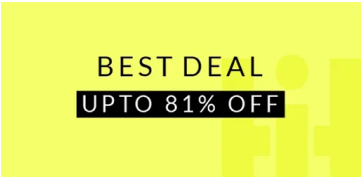
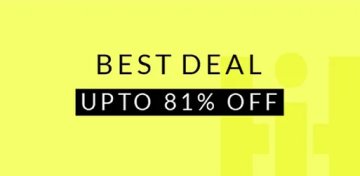
Replaced assests

diff --git a/src/components/Features.vue b/src/components/Features.vue
@@ -14,7 +14,7 @@
 
     <div class="bg-[#F5F4F2] flex justify-around py-10 lg:px-32 md:px-24 text-center lg:text-2xl md:text-base text-sm font-semibold my-16 divide-x divide-red-400">
         <div class="w-full">
-                <svg class="lg:w-36 lg:h-36 md:w-28 md:h-28 w-10 h-10 mb-8 mx-auto " xmlns="http://www.w3.org/2000/svg" width="88" height="89" viewBox="0 0 88 89" fill="none">
+                <svg class="lg:w-28 lg:h-28 md:w-20 md:h-20 w-10 h-10 mb-8 mx-auto " xmlns="http://www.w3.org/2000/svg" width="88" height="89" viewBox="0 0 88 89" fill="none">
                     <path d="M68.5196 30.039C60.6771 26.2728 52.8446 22.4865 45.0146 18.6977C44.3423 18.3722 43.7325 18.3797 43.0628 18.7278C41.7932 19.3864 40.4936 19.9874 39.2015 20.6059C32.6161 23.7711 26.0282 26.9364 19.4428 30.1041C18.778 30.4246 18.5356 30.968 18.5381 31.6992C18.5531 39.9604 18.5731 48.2241 18.5331 56.4853C18.5281 57.7173 18.9279 58.416 20.0526 58.9493C27.4127 62.4451 34.7604 65.971 42.0731 69.5694C43.4201 70.233 44.4673 70.3081 45.8744 69.612C53.2795 65.9409 60.7496 62.395 68.2097 58.8391C69.1594 58.3859 69.5243 57.7674 69.5118 56.7181C69.4668 52.5863 69.4943 48.457 69.4943 44.3251C69.4993 44.3251 69.5018 44.3251 69.5068 44.3251C69.5068 40.1006 69.4968 35.8762 69.5143 31.6492C69.5193 30.8704 69.2369 30.3821 68.5196 30.039ZM43.5376 21.4473C43.82 21.3121 44.0599 21.2019 44.4073 21.3747C47.2164 22.7544 50.0405 24.1067 52.8721 25.4765C52.6597 25.807 52.3373 25.8646 52.0649 25.9973C45.6494 29.0949 39.2315 32.1825 32.826 35.2977C32.2312 35.5857 31.7614 35.5807 31.1765 35.2877C28.6898 34.0406 26.1806 32.8411 23.6789 31.6241C23.489 31.5315 23.3015 31.4313 23.0716 31.3111C29.9294 28.0081 36.7348 24.7277 43.5376 21.4473ZM42.7054 66.9025C38.6866 64.9693 34.7729 63.0862 30.8591 61.2031C27.8901 59.7732 24.9285 58.3283 21.9495 56.9185C21.4271 56.6706 21.2347 56.3751 21.2372 55.7841C21.2597 48.6798 21.2597 41.5756 21.2397 34.4688C21.2372 33.7451 21.3047 33.5173 22.0769 33.8954C28.7323 37.1407 35.4002 40.3536 42.0706 43.5664C42.4454 43.7467 42.7229 43.8719 42.7204 44.4078C42.6979 51.8551 42.7054 59.3049 42.7054 66.9025ZM43.6451 41.2951C40.841 39.9279 38.0319 38.5731 35.0878 37.1458C36.7548 36.3394 38.2993 35.5932 39.8438 34.847C45.0196 32.3553 50.2005 29.8712 55.3663 27.3571C55.9037 27.0966 56.3035 27.1117 56.8309 27.3746C59.5 28.6993 62.1917 29.9764 65.0382 31.3512C61.6393 32.9914 58.4404 34.5364 55.2414 36.079C51.7575 37.7593 48.2711 39.4396 44.7847 41.1173C44.4273 41.2901 44.0874 41.5105 43.6451 41.2951ZM66.3703 56.7582C59.4475 60.0812 52.5297 63.4167 45.6094 66.7447C45.5595 66.7698 45.492 66.7597 45.342 66.7773C45.342 59.2749 45.347 51.8301 45.3295 44.3852C45.3295 43.9595 45.497 43.7817 45.8269 43.624C52.6247 40.3586 59.425 37.0932 66.2129 33.8077C66.7352 33.5548 66.8377 33.645 66.8377 34.1909C66.8277 41.4479 66.8277 48.7049 66.8402 55.9619C66.8377 56.355 66.7377 56.5829 66.3703 56.7582Z" fill="#1C1C1C"/>
                     <path d="M87.521 38.0622C87.0311 34.5564 86.0939 31.1758 84.7743 27.8979C84.427 27.0315 83.7347 26.6884 83.0074 26.9614C82.2926 27.2293 81.9977 27.9831 82.2826 28.832C82.3626 29.0674 82.4751 29.2902 82.565 29.5231C85.919 38.4103 86.2889 47.4277 83.5522 56.5178C78.5863 73.0126 63.9335 84.7019 46.7939 85.8338C38.3716 86.3897 30.4641 84.5316 23.144 80.2796C19.84 78.3589 16.8585 76.0225 14.0444 73.0551C16.9185 73.3631 19.5526 73.6336 22.1843 73.9366C23.2589 74.0618 23.9887 73.6686 24.1062 72.8122C24.2111 72.061 23.6488 71.4124 22.6691 71.3047C18.7954 70.879 14.9191 70.4709 11.0403 70.0902C9.89819 69.9775 9.46083 70.4158 9.34087 71.5476C9.12344 73.566 8.88101 75.5818 8.65858 77.6001C8.44865 79.4933 8.23372 81.3889 8.05877 83.2871C7.9763 84.1685 8.50863 84.8271 9.26089 84.8972C9.96567 84.9623 10.5555 84.4415 10.6754 83.5876C10.8129 82.5984 10.9179 81.6043 11.0278 80.6101C11.2453 78.6669 11.4552 76.7262 11.6676 74.783C12.04 74.7905 12.1425 75.0559 12.3049 75.2187C23.4489 86.267 36.7771 90.6367 52.2072 87.8922C64.0934 85.7787 73.5029 79.4933 80.2933 69.5043C86.7462 60.0035 89.1155 49.4686 87.521 38.0622Z" fill="#1C1C1C"/>
                     <path d="M5.37475 59.3C2.24324 50.9762 1.84837 42.5072 4.09265 33.9155C9.14355 14.586 27.7676 1.53442 47.6213 3.36495C56.521 4.18631 64.356 7.49929 71.1388 13.3189C72.151 14.1853 73.1207 15.0994 74.0779 16.1887C73.1407 16.086 72.3384 15.9958 71.5337 15.9082C69.5493 15.6928 67.5674 15.4575 65.5806 15.2696C64.6634 15.1845 64.0436 15.6703 63.9486 16.4366C63.8561 17.1803 64.3959 17.7763 65.3082 17.889C66.6077 18.0517 67.9098 18.1945 69.2119 18.3372C71.7836 18.6227 74.3553 18.9257 76.9295 19.1786C78.1466 19.2963 78.5689 18.9157 78.7114 17.7112C78.9513 15.6953 79.1837 13.677 79.4037 11.6587C79.6161 9.70293 79.8285 7.74469 79.991 5.78395C80.0635 4.91251 79.5661 4.34407 78.8139 4.27145C78.0666 4.19632 77.4818 4.69966 77.3818 5.54606C77.1819 7.25138 77.0044 8.96171 76.8095 10.6695C76.6645 11.9466 76.5046 13.2213 76.3446 14.5434C76.1797 14.4483 76.1172 14.4283 76.0747 14.3882C65.4306 3.50017 52.5572 -1.06488 37.472 0.998532C28.1425 2.27314 20.0026 6.28979 13.3647 12.9483C2.0533 24.2946 -2.0279 37.9897 0.928662 53.7633C1.37602 56.1523 2.14328 58.4611 3.013 60.7324C3.39538 61.734 4.06016 62.0971 4.8774 61.7866C5.61467 61.5086 5.87959 60.7499 5.56718 59.8284C5.5072 59.6506 5.44222 59.4753 5.37475 59.3Z" fill="#1C1C1C"/>
@@ -27,7 +27,7 @@
         </div>
 
         <div class="w-full">
-            <svg  class="lg:w-36 lg:h-36 md:w-28 md:h-28 w-10 h-10 mb-8 mx-auto" xmlns="http://www.w3.org/2000/svg" width="66" height="89" viewBox="0 0 66 89" fill="none">
+            <svg  class="lg:w-28 lg:h-28 md:w-20 md:h-20 w-10 h-10 mb-8 mx-auto" xmlns="http://www.w3.org/2000/svg" width="66" height="89" viewBox="0 0 66 89" fill="none">
                 <path d="M63.47 28.1377C62.2394 26.5896 60.9865 25.0604 59.7043 23.5553C58.9361 22.6529 58.4531 21.6507 58.3397 20.4762C58.1489 18.5079 57.9289 16.5413 57.7949 14.5695C57.5577 11.0926 54.9711 8.30457 51.5166 7.91366C49.7824 7.71734 48.0465 7.53136 46.3072 7.40909C44.5765 7.28683 43.0899 6.76504 41.6995 5.62502C39.3707 3.71524 37.3443 1.31122 34.2438 0.515625C33.3845 0.515625 32.5252 0.515625 31.6658 0.515625C29.4693 1.10113 27.8658 2.61656 26.1867 4.01833C25.2844 4.77087 24.3769 5.51653 23.4643 6.25358C22.7098 6.86492 21.8436 7.16972 20.8725 7.25755C18.652 7.45903 16.4314 7.67946 14.2144 7.93088C11.2874 8.26324 8.62177 10.9548 8.29866 13.891C8.05633 16.0832 7.82603 18.2788 7.63525 20.4762C7.54416 21.5129 7.2073 22.4221 6.55248 23.2195C5.26348 24.7917 3.97447 26.3657 2.67858 27.9345C0.296495 30.819 0.250091 34.3716 2.58749 37.2888C3.84041 38.8542 5.12426 40.3954 6.4064 41.9367C7.0234 42.6789 7.49088 43.4952 7.594 44.4613C7.79681 46.3693 7.9893 48.2808 8.13195 50.1958C8.431 54.1996 10.722 56.905 14.4017 57.4578C15.7388 57.6593 17.0966 57.7316 18.5214 57.8693C18.4097 58.1414 18.3478 58.2981 18.2825 58.4514C15.2971 65.6118 12.3169 72.7739 9.3144 79.9274C8.97582 80.7333 8.86583 81.4721 9.4983 82.1558C10.1067 82.8119 10.844 82.7619 11.6381 82.5329C13.9909 81.8544 16.3627 81.2345 18.707 80.5301C19.2673 80.3614 19.5113 80.4647 19.776 80.9572C20.9636 83.1718 22.1959 85.364 23.3938 87.5751C23.8011 88.3277 24.3597 88.7703 25.2448 88.6773C26.1454 88.5826 26.5252 87.9264 26.8346 87.1842C29.9849 79.626 33.1387 72.0696 36.2959 64.5131C36.4025 64.2565 36.4592 63.9775 36.717 63.7916C38.7433 62.3399 40.5789 60.647 42.5261 59.0972C42.9094 58.7924 43.3391 58.5754 43.7825 58.3687C44.4322 58.0639 44.7604 58.2086 45.0492 58.9129C46.9346 63.5332 48.8767 68.1329 50.7861 72.7446C51.7005 74.9541 52.7248 77.117 53.4896 79.3867C53.4913 79.3867 53.4913 79.3884 53.493 79.3884C53.2593 79.5916 53.0221 79.3918 52.8193 79.3367C51.1419 78.8821 49.4748 78.3965 47.8025 77.9212C45.9652 77.3994 44.9564 77.8127 44.0351 79.4762C43.1638 81.0502 42.3044 82.6328 41.4279 84.205C41.3299 84.3824 41.3076 84.6614 41.0068 84.6717C39.6714 81.4842 38.3343 78.3 37.0075 75.1108C36.7892 74.5855 36.5297 74.1292 35.9075 74.031C35.3885 73.9484 34.9313 74.0723 34.6099 74.5063C34.2473 74.9937 34.3006 75.5086 34.5274 76.0476C36.1034 79.8103 37.6726 83.5765 39.2366 87.3444C39.5425 88.0814 39.9825 88.6256 40.8453 88.6824C41.7476 88.7427 42.2615 88.233 42.6585 87.5011C43.8306 85.3399 45.0337 83.1959 46.1904 81.0278C46.4585 80.525 46.6682 80.339 47.2955 80.5301C49.6398 81.2448 52.0133 81.8579 54.3678 82.5346C55.1619 82.7619 55.8992 82.8102 56.5042 82.1489C57.1366 81.4583 57.0077 80.7023 56.676 79.9102C54.3249 74.3031 51.9875 68.6926 49.6449 63.0821C48.9265 61.36 48.2081 59.6379 47.4691 57.8659C48.7976 57.7385 50.0213 57.6041 51.2467 57.5043C54.3833 57.2494 57.0919 54.9194 57.6093 51.8094C57.9616 49.6946 58.1128 47.5438 58.2933 45.4032C58.405 44.079 58.7625 42.9011 59.6476 41.8713C60.9366 40.3713 62.181 38.8335 63.4218 37.2957C65.6888 34.4887 65.7128 30.9602 63.47 28.1377ZM53.4896 79.4848C53.4965 79.4573 53.5016 79.4297 53.5085 79.4022C53.536 79.4246 53.5618 79.447 53.5893 79.4693C53.5549 79.4745 53.5223 79.4797 53.4896 79.4848ZM24.9234 84.8525C23.8991 82.9841 22.9435 81.2276 21.9776 79.4779C21.0736 77.8385 20.0132 77.4046 18.2 77.9195C16.2922 78.4619 14.3845 79.0027 12.3462 79.583C13.5492 76.7002 14.7007 73.9449 15.8523 71.1896C17.5675 67.0807 19.2982 62.9787 20.9842 58.8578C21.2369 58.2396 21.4878 58.0829 22.1134 58.3395C22.7338 58.5926 23.2804 58.9319 23.7891 59.3503C25.1589 60.4817 26.5545 61.5821 27.8882 62.7549C29.4075 64.0895 31.1313 64.8661 33.2607 64.8902C30.4713 71.565 27.718 78.1588 24.9234 84.8525ZM61.1893 35.8268C60.177 37.0718 59.218 38.3686 58.118 39.531C56.3632 41.3856 55.6551 43.5882 55.5537 46.08C55.4936 47.5386 55.3441 48.9955 55.1619 50.4455C54.7992 53.3455 53.237 54.73 50.2688 54.9401C48.3009 55.0796 46.3347 55.257 44.3754 55.4929C42.9885 55.6599 41.7631 56.2644 40.6837 57.1702C39.1043 58.4962 37.5059 59.7981 35.9161 61.112C35.0722 61.8095 34.1167 62.2038 32.9462 62.1831C31.8978 62.2193 30.944 61.8112 30.1001 61.1189C28.7475 60.0133 27.3365 58.9698 26.0715 57.7712C24.2325 56.0284 22.0412 55.3999 19.5973 55.2707C17.9714 55.1846 16.349 54.9952 14.7334 54.7851C12.5077 54.4958 11.0331 52.8082 10.8526 50.554C10.679 48.3842 10.4229 46.2212 10.2012 44.0566C10.0689 42.7667 9.5533 41.6302 8.74896 40.6314C7.47198 39.0471 6.17438 37.4817 4.87849 35.9146C3.08075 33.7379 3.06701 31.6645 4.84756 29.4913C6.04548 28.0292 7.22105 26.5465 8.45162 25.1103C9.57392 23.7998 10.1651 22.2913 10.3233 20.5916C10.5089 18.594 10.6979 16.5981 10.8715 14.6005C11.064 12.3704 12.8394 10.6707 15.096 10.4864C17.2616 10.3091 19.4202 10.0594 21.5823 9.83894C22.9916 9.69601 24.205 9.09845 25.2861 8.20641C26.8535 6.91314 28.4227 5.61986 29.9918 4.32486C31.8772 2.76982 34.0273 2.72849 35.9367 4.25769C37.4337 5.45798 38.9255 6.66688 40.3692 7.92916C41.904 9.26893 43.6725 9.88199 45.6851 9.99909C47.567 10.1076 49.4507 10.2884 51.3189 10.5381C53.6391 10.8464 55.0278 12.6494 55.2237 15.3496C55.3664 17.3214 55.5434 19.2914 55.7737 21.2546C55.9456 22.708 56.597 23.972 57.5405 25.0931C58.7574 26.5396 59.9484 28.0086 61.1549 29.4654C62.9148 31.5974 62.932 33.6845 61.1893 35.8268Z" fill="#1C1C1C"/>
                 <path d="M30.5298 12.3979C29.6876 12.5012 29.2098 13.0368 29.2614 13.8203C29.3112 14.5832 29.8664 15.0361 30.7429 15.0086C31.4011 14.9879 32.0577 14.9431 32.8569 14.9018C33.7437 14.9483 34.768 14.9672 35.7924 15.1188C46.0632 16.6325 52.9276 27.2129 50.1468 37.275C47.5327 46.7378 38.2054 52.2898 28.6255 49.903C20.1438 47.79 14.2006 39.6894 15.4123 30.4401C16.2441 24.0856 19.6987 19.4705 25.4287 16.586C26.4032 16.0952 26.7332 15.4425 26.3929 14.7003C26.0251 13.8996 25.2809 13.7205 24.2738 14.1889C15.9055 18.0842 11.1104 27.6383 12.9752 36.705C15.2095 47.5661 25.5783 54.6731 36.5091 52.8374C47.4845 50.9948 55.0381 40.2284 53.1149 29.1692C51.257 18.4734 41.2939 11.0771 30.5298 12.3979Z" fill="#1C1C1C"/>
                 <path d="M22.7149 29.9563C21.1836 30.0597 19.8911 30.807 19.2123 32.3672C18.5214 33.955 18.7603 35.4825 19.9702 36.7379C21.8797 38.72 23.8286 40.6642 25.8 42.5843C27.3708 44.1152 29.7375 44.16 31.2929 42.6222C35.5346 38.4307 39.7453 34.2064 43.9269 29.9546C45.032 28.8318 45.3052 27.4146 44.7656 25.894C43.7636 23.0732 40.2987 22.3 38.1263 24.4474C35.0877 27.4507 32.0783 30.4833 29.0758 33.521C28.7028 33.8982 28.4828 33.9963 28.0772 33.5469C27.3296 32.7185 26.5115 31.9505 25.7175 31.1635C24.9286 30.3834 23.9713 29.9977 22.7149 29.9563ZM27.3622 36.5708C28.2645 37.468 28.8678 37.4698 29.7735 36.5622C33.137 33.199 36.4919 29.8289 39.8553 26.4657C40.5978 25.7235 41.3609 25.6632 41.959 26.278C42.2048 26.5311 42.3629 26.8308 42.3337 27.2027C42.3766 27.6746 42.1394 28.0156 41.8232 28.3307C37.774 32.3845 33.7299 36.4434 29.6756 40.4937C28.9125 41.2549 28.2096 41.2497 27.4465 40.4937C25.6367 38.6976 23.8355 36.8929 22.0412 35.0812C21.3658 34.3976 21.3314 33.6175 21.9054 33.0371C22.4606 32.4775 23.2941 32.5171 23.9558 33.168C25.1022 34.2942 26.2262 35.4394 27.3622 36.5708Z" fill="#1C1C1C"/>
@@ -38,7 +38,7 @@
         </div>
 
         <div class="w-full">
-            <svg class="lg:w-36 lg:h-36 md:w-28 md:h-28 w-10 h-10 mb-8 mx-auto" xmlns="http://www.w3.org/2000/svg" width="88" height="89" viewBox="0 0 88 89" fill="none">
+            <svg class="lg:w-28 lg:h-28 md:w-20 md:h-20 w-10 h-10 mb-8 mx-auto" xmlns="http://www.w3.org/2000/svg" width="88" height="89" viewBox="0 0 88 89" fill="none">
                 <path d="M68.2047 67.5377C66.9139 63.8424 64.3583 61.5187 60.493 60.7583C57.6396 60.1969 54.7696 59.7208 51.9161 59.1594C51.6348 59.1049 51.1288 59.3015 51.0437 58.7259C50.9681 58.2213 51.3605 58.1124 51.656 57.9181C52.3984 57.4278 53.2187 56.9635 53.7081 56.2458C54.7554 54.7108 56.1502 54.4455 57.8831 54.5237C60.5545 54.6445 62.3867 52.7092 62.3914 50.0112C62.3961 44.4185 62.3938 38.8258 62.3938 33.2332C62.3938 31.883 62.2496 30.547 61.9375 29.2323C59.6278 19.4706 50.8522 13.5131 40.9277 14.9723C32.3673 16.2301 25.5351 24.0755 25.4784 32.7357C25.4571 36.0923 25.4713 39.4465 25.4713 42.803C25.4736 45.7047 26.7999 47.6306 29.5068 48.6065C29.8803 48.7415 30.0316 48.9192 30.1238 49.3005C31.0198 53.0029 33.1049 55.8739 36.2634 57.9679C36.5873 58.1834 36.9182 58.3469 36.8095 58.8088C36.7078 59.2375 36.2941 59.1096 36.0412 59.157C33.4075 59.6616 30.7716 60.1614 28.1261 60.5901C23.7266 61.3031 20.8329 63.7406 19.4759 68.002C19.3742 68.3218 19.3388 68.6747 19.0362 69.004C17.5563 67.5164 16.0858 66.0407 14.6224 64.5602C13.646 63.5724 13.6531 62.9399 14.6555 61.9332C16.2324 60.3485 17.8021 58.7567 19.4003 57.1957C19.7974 56.8096 19.9085 56.5869 19.4452 56.1297C16.2253 52.9485 13.029 49.7411 9.84929 46.5196C9.4663 46.1311 9.28663 46.1596 8.92492 46.5267C7.02182 48.4715 5.09035 50.3925 3.16361 52.3136C1.68841 53.787 0.733319 55.5375 0.29596 57.5818C0.229765 57.8921 0.383432 58.2806 0.0477295 58.5222C0.0477295 59.1523 0.0477295 59.7847 0.0477295 60.4148C0.0997397 60.474 0.19194 60.5285 0.199032 60.5901C0.473267 63.1934 1.73333 65.2613 3.56315 67.0687C6.8256 70.2879 10.0431 73.5544 13.2843 76.7949C16.4262 79.9335 19.4995 83.1432 22.7431 86.1729C26.268 89.4631 31.9134 89.5176 35.5305 86.3932C38.001 84.2589 40.358 81.9967 42.7788 79.8056C43.1216 79.4977 43.0791 79.3058 42.7741 79.0215C42.2115 78.4957 41.6772 77.9366 41.0176 77.2805C41.488 77.2805 41.7457 77.2805 42.0034 77.2805C51.5355 77.2805 61.0675 77.2734 70.5972 77.2971C71.349 77.2994 71.4175 77.1336 71.1835 76.4562C70.1622 73.4928 69.2379 70.4963 68.2047 67.5377ZM57.0556 51.6101C57.3039 50.7147 57.4575 49.7885 57.8287 48.9618C58.0746 48.4146 58.876 48.5331 59.4363 48.0972C59.7058 51.2619 59.3654 51.7593 57.0556 51.6101ZM58.1053 45.5058C58.1053 44.6838 58.1053 43.9305 58.1053 43.1796C58.1053 42.4145 58.1053 41.6494 58.1053 40.7611C59.9469 42.1089 59.9469 44.2977 58.1053 45.5058ZM29.7195 45.5389C28.8968 45.0249 28.4689 44.3853 28.3767 43.5373C28.2538 42.4027 28.6179 41.4765 29.7195 40.7706C29.7195 42.4003 29.7195 43.8855 29.7195 45.5389ZM30.3579 36.007C29.9749 35.9951 29.7266 36.0117 29.7148 36.5305C29.6865 37.6888 29.6534 37.6865 28.3815 38.0986C28.3673 34.1191 27.9867 30.1514 29.8756 26.4277C31.5281 23.173 33.93 20.6953 37.2114 19.12C46.7529 14.5388 57.9374 20.636 59.3441 31.1581C59.6538 33.47 59.4008 35.7891 59.5048 38.1152C58.5403 37.9375 57.8382 37.6272 58.0958 36.4665C58.2235 35.8886 57.7412 36.0046 57.4268 36.0141C54.7861 36.1017 52.266 35.6233 49.8711 34.4744C47.8806 33.5174 46.2257 32.1317 44.7103 30.5517C43.9349 29.7416 43.9041 29.7392 43.1547 30.5328C41.0554 32.7499 38.6558 34.4815 35.6913 35.3627C33.9442 35.8814 32.1664 36.0591 30.3579 36.007ZM32.7645 47.929C32.4714 46.4604 32.6085 44.9586 32.5967 43.471C32.5872 42.2108 32.6439 40.9459 32.5754 39.6881C32.5376 38.9964 32.8165 38.814 33.4217 38.7477C36.852 38.3734 39.897 37.0516 42.6228 34.9458C43.0696 34.5999 43.4313 33.913 43.9467 33.9604C44.3935 34.0006 44.7812 34.5999 45.2091 34.9316C47.9255 37.0445 50.9704 38.3734 54.4031 38.7477C54.9965 38.8116 55.2636 38.9893 55.2447 39.681C55.1856 41.9147 55.2164 44.1508 55.2116 46.387C55.2093 47.9882 54.7601 49.4782 54.1218 50.9303C53.8901 51.4585 53.5922 51.6788 52.9752 51.6693C50.2305 51.629 47.4834 51.667 44.7363 51.6385C44.1122 51.6314 43.838 51.7238 43.8545 52.4581C43.8971 54.5545 43.8592 54.5569 45.9325 54.5569C47.6631 54.5569 49.396 54.5569 51.3227 54.5569C48.6442 56.7859 45.734 57.7002 42.5235 57.2525C37.3485 56.5277 33.7929 53.0598 32.7645 47.929ZM47.968 59.6402C46.5401 61.0733 45.2115 62.4093 43.942 63.6837C42.6654 62.4022 41.3249 61.0544 39.9537 59.6781C42.5826 60.4053 45.228 60.4385 47.968 59.6402ZM8.32208 51.179C9.39302 50.1557 9.36701 50.1272 10.4025 51.1648C12.0597 52.8253 13.7193 54.4858 15.3742 56.1487C15.5302 56.3074 15.743 56.4258 15.8045 56.7432C15.3813 57.153 14.977 57.6623 14.464 57.9987C14.1259 58.219 13.9297 57.7144 13.717 57.5036C11.925 55.7341 10.159 53.9386 8.36463 52.1739C7.9982 51.8138 7.87763 51.603 8.32208 51.179ZM34.7149 83.2924C33.1971 84.799 31.4666 85.8033 29.443 85.7512C27.294 85.7796 25.6178 85.0666 24.2467 83.6975C17.8399 77.3018 11.4309 70.9109 5.06671 64.4725C2.0974 61.4666 2.35273 56.8096 5.51589 54.0097C5.74994 53.8036 5.86578 53.7349 6.11401 53.986C8.06912 55.9615 10.0313 57.9276 12.0077 59.8795C12.2961 60.1637 12.185 60.3106 11.9912 60.5759C10.5585 62.5278 10.6956 64.6834 12.3954 66.3983C15.7004 69.7359 19.022 73.0617 22.353 76.3732C24.067 78.0788 26.1781 78.2209 28.1545 76.7665C28.502 76.5106 28.6628 76.5699 28.9228 76.8304C30.8378 78.7633 32.7621 80.6868 34.6912 82.6055C34.9371 82.8518 35.0033 83.0058 34.7149 83.2924ZM38.4573 79.8577C38.1145 80.1135 37.8213 80.4333 37.5022 80.7176C37.4029 80.8076 37.2894 80.881 37.1617 80.9758C37.001 80.8265 36.8733 80.7152 36.7551 80.5968C34.8756 78.7136 33.0033 76.8209 31.1073 74.9543C30.755 74.6085 30.7598 74.4356 31.1238 74.0969C32.4997 72.8153 32.4832 72.8011 33.8165 74.1395C35.3697 75.7005 36.9111 77.2757 38.4951 78.806C38.9419 79.2418 38.9324 79.5024 38.4573 79.8577ZM66.5239 74.3811C57.3393 74.3858 48.1548 74.3787 38.9703 74.4001C38.3391 74.4024 37.9159 74.2082 37.488 73.7676C36.0341 72.2658 34.5329 70.8114 33.0742 69.3119C32.729 68.9566 32.5376 68.9092 32.1451 69.2764C30.3673 70.9369 28.5517 72.5572 26.7479 74.1916C25.7526 75.0941 25.1261 75.0799 24.1757 74.1371C23.3838 73.3507 22.6107 72.5429 21.7998 71.7755C21.4807 71.4722 21.4216 71.1951 21.5681 70.7924C21.8684 69.961 22.1071 69.1082 22.4145 68.2791C23.405 65.6143 25.3176 64.0343 28.1025 63.5203C31.1025 62.9684 34.112 62.4591 37.105 61.8811C37.6015 61.7863 37.8899 61.8882 38.2209 62.2222C39.949 63.9775 41.7103 65.6996 43.4242 67.4667C43.8238 67.8788 44.0365 67.8575 44.4219 67.4595C46.0578 65.7754 47.7505 64.1433 49.377 62.452C49.8617 61.9498 50.2778 61.7769 51.0012 61.9237C54.1005 62.5515 57.2306 63.0418 60.3276 63.679C62.5995 64.148 64.2756 65.5266 65.1385 67.6727C66.0085 69.8283 66.6728 72.0692 67.4246 74.265C67.0889 74.4569 66.8005 74.3811 66.5239 74.3811Z" fill="#1C1C1C"/>
                 <path d="M87.9261 4.96418C87.9095 2.86308 86.8859 1.45366 84.9473 0.700389C84.848 0.662489 84.718 0.67907 84.7345 0.515625C77.4058 0.515625 70.0748 0.515625 62.746 0.515625C62.72 0.560632 62.7058 0.634064 62.668 0.648276C60.3725 1.56025 59.493 2.83465 59.493 5.27212C59.4907 8.6571 59.5923 12.0468 59.4623 15.4247C59.3465 18.4685 61.4292 20.6573 64.4836 20.4631C65.4908 20.3991 66.5026 20.4536 67.5333 20.4536C67.044 23.3364 66.5782 26.0913 66.0889 28.9741C66.4624 28.7632 66.7106 28.6353 66.9447 28.4885C70.1882 26.4584 73.5003 24.5279 76.6469 22.3604C78.7132 20.9368 80.7983 20.2428 83.3279 20.4109C86.0348 20.591 87.8882 18.6936 87.9213 15.979C87.9686 12.3074 87.9544 8.63578 87.9261 4.96418ZM85.0561 15.7942C85.0537 17.0425 84.5052 17.6774 83.2735 17.5305C80.2475 17.1705 77.6564 17.9972 75.2474 19.8424C73.6705 21.0505 71.888 21.9885 70.018 23.1587C70.3112 21.3703 70.531 19.7572 70.8596 18.1677C70.992 17.5281 70.7438 17.5447 70.2875 17.5471C68.2284 17.5613 66.1669 17.5566 64.1078 17.5518C62.895 17.5495 62.3962 17.0473 62.3962 15.8321C62.3914 12.2482 62.3914 8.66657 62.3962 5.08262C62.3985 3.88165 62.8572 3.40553 64.0368 3.40553C70.4743 3.40079 76.9117 3.40079 83.3492 3.40553C84.5667 3.40553 85.056 3.89349 85.0584 5.12762C85.0655 8.68552 85.0655 12.2387 85.0561 15.7942Z" fill="#1C1C1C"/>
                 <path d="M4.77358 40.316C5.08327 40.8489 5.31023 40.785 5.74995 40.5126C7.6696 39.3282 9.61289 38.1841 11.5396 37.0091C12.1661 36.6278 13.1969 36.3814 13.2938 35.8011C13.3884 35.2373 12.6318 34.548 12.2985 33.8895C12.0763 33.4513 11.8895 33.4157 11.4734 33.6858C10.4758 34.3324 9.43558 34.9128 8.30554 35.5855C8.30554 35.2894 8.28899 35.2018 8.30791 35.126C13.3245 15.7091 33.4501 3.79659 52.8546 8.75206C53.5095 8.91787 54.3984 9.39163 54.7672 9.13343C55.2353 8.80417 55.2518 7.8614 55.5237 7.20762C55.7436 6.67701 55.6254 6.50409 55.0627 6.34302C48.9066 4.57591 42.6748 4.20639 36.41 5.51395C23.0954 8.29252 13.5562 15.9342 7.72397 28.2305C6.65304 30.4879 5.91071 32.8662 5.25349 35.4647C4.67901 34.5172 4.20856 33.7142 3.7121 32.9254C3.33384 32.3237 3.12816 31.343 2.54896 31.2104C1.9272 31.0683 1.30781 31.8784 0.645858 32.1911C0.215592 32.3924 0.144669 32.5961 0.414176 33.0343C1.88937 35.4458 3.35275 37.869 4.77358 40.316Z" fill="#1C1C1C"/>
@@ -53,7 +53,7 @@
         </div>
 
         <div class="w-full">
-            <svg class="lg:w-36 lg:h-36 md:w-28 md:h-28 w-10 h-10 mb-8 mx-auto" xmlns="http://www.w3.org/2000/svg" width="113" height="89" viewBox="0 0 113 89" fill="none">
+            <svg class="lg:w-28 lg:h-28 md:w-20 md:h-20 w-10 h-10 mb-8 mx-auto" xmlns="http://www.w3.org/2000/svg" width="113" height="89" viewBox="0 0 113 89" fill="none">
                 <path d="M112.531 42.3127C112.531 41.6095 112.109 41.1803 111.413 41.1011C110.811 41.0311 110.201 41.0159 109.596 40.9854C105.789 40.8058 102.091 40.1086 98.5273 38.7082C97.6067 38.346 97.2269 37.935 97.233 36.8482C97.2907 26.8414 97.2633 16.8316 97.2725 6.82485C97.2725 5.98157 97.1813 5.16264 96.917 4.36807C96.0784 1.83518 94.0852 0.516978 91.0439 0.516978C76.9885 0.513934 62.9392 0.516978 48.8869 0.516978C47.2553 0.516978 45.6207 0.516978 43.9891 0.516978C31.2646 0.526111 18.5431 0.513934 5.82154 0.556554C2.84093 0.565688 0.449755 3.05291 0.446717 6.02724C0.437602 24.7499 0.437602 43.4726 0.446717 62.1923C0.449755 65.2092 2.94423 67.6721 5.94003 67.6752C10.7254 67.6782 15.5108 67.6752 20.2962 67.6752C37.1954 67.6752 54.0977 67.6813 70.9969 67.6569C71.8598 67.6569 72.3581 67.8274 72.6832 68.7011C73.2757 70.3024 74.1568 71.7698 75.0622 73.2159C78.9239 79.3837 84.2927 84.0598 90.0169 88.3828C90.6702 88.876 91.2626 88.7298 91.8764 88.261C94.6018 86.1909 97.2451 84.0324 99.7153 81.6578C104.75 76.8143 108.56 71.1975 110.662 64.4786C112.935 57.227 112.534 49.7531 112.531 42.3127ZM2.90473 10.3867C3.005 8.94676 2.91385 7.49765 2.93815 6.05159C2.9655 4.44418 4.01069 3.26906 5.5967 3.0316C6.08283 2.95854 6.57504 2.90374 7.06422 2.90374C34.9379 2.89765 62.8086 2.89765 90.6823 2.9007C92.9854 2.9007 94.2007 3.57959 94.6109 5.3727C95.0454 7.26933 94.702 9.23293 94.7749 11.163C94.7871 11.4857 94.5623 11.5101 94.3222 11.5071C94.0579 11.504 93.7905 11.5071 93.5262 11.5071C78.6414 11.5071 63.7535 11.5071 48.8687 11.5071C33.9444 11.5071 19.0201 11.4979 4.0988 11.5284C3.19641 11.5314 2.83485 11.3883 2.90473 10.3867ZM3.1083 15.0628C3.05057 14.11 3.41213 13.8634 4.24768 13.9943C4.28414 14.0004 4.32364 13.9943 4.3601 13.9943C34.0872 13.9943 63.8143 14.0004 93.5444 13.9669C94.62 13.9669 94.8539 14.2774 94.8023 15.2759C94.7203 16.8681 94.7172 18.4725 94.8023 20.0677C94.8539 21.0328 94.5592 21.2398 93.6173 21.2398C78.6961 21.2063 63.7748 21.2155 48.8535 21.2155C34.0842 21.2155 19.3148 21.1972 4.54543 21.2489C3.30579 21.252 3.03234 20.8836 3.10526 19.742C3.20553 18.1863 3.19945 16.6185 3.1083 15.0628ZM70.1614 65.3919C49.0905 65.3919 28.0166 65.3919 6.94572 65.395C5.7395 65.395 4.60012 65.2336 3.74027 64.2777C3.19034 63.6658 2.92296 62.9534 2.92296 62.1101C2.93208 49.5948 2.93815 37.0795 2.91081 24.5612C2.90777 23.7758 3.16907 23.6388 3.88004 23.6418C33.8745 23.657 63.869 23.657 93.8634 23.654C94.3648 23.654 94.8084 23.5566 94.7992 24.3603C94.7628 28.4214 94.781 32.4856 94.781 36.7447C93.6599 36.0627 92.7879 35.4021 91.9857 34.6562C91.2444 33.9682 90.576 33.9652 89.7981 34.6593C84.3686 39.4967 78.0094 41.6217 70.7721 41.1041C69.818 41.0372 69.1405 41.3842 69.1435 42.3828C69.1678 49.2112 68.7212 56.0762 70.5837 62.7768C70.8146 63.611 71.0395 64.4482 71.2977 65.3889C70.8875 65.3919 70.5229 65.3919 70.1614 65.3919ZM106.74 67.9218C103.945 74.0805 99.5087 78.9088 94.4073 83.1983C93.4198 84.0294 92.3838 84.7996 91.3902 85.6246C91.056 85.9016 90.8251 85.9869 90.4271 85.6794C83.9949 80.7202 78.2342 75.1916 74.8495 67.5899C72.6224 62.5881 71.7261 57.3183 71.5864 51.8903C71.5225 49.3817 71.5894 46.8701 71.5469 44.3616C71.5347 43.6918 71.6593 43.4392 72.4037 43.4605C79.1518 43.6583 85.1221 41.5304 90.3481 37.2805C90.7643 36.9425 91.0044 36.9578 91.3933 37.2622C96.3518 41.1924 102.131 42.8181 108.323 43.2656C110.112 43.3935 110.112 43.3965 110.112 45.1836C110.112 46.59 110.112 47.9965 110.112 50.1032C110.286 55.8114 109.414 62.031 106.74 67.9218Z" fill="#1C1C1C"/>
                 <path d="M36.2079 39.3535C29.001 39.3444 21.7941 39.3444 14.5871 39.3535C12.5271 39.3566 11.5913 40.2821 11.5822 42.3309C11.567 45.5244 11.5761 48.7149 11.5792 51.9084C11.5822 54.3439 12.5028 55.2754 14.9335 55.2815C18.4246 55.2876 21.9126 55.2846 25.4036 55.2846C28.9676 55.2846 32.5346 55.3028 36.0986 55.2785C38.1646 55.2633 39.1734 54.2251 39.1764 52.1915C39.1825 48.9219 39.1825 45.6553 39.1764 42.3857C39.1734 40.3582 38.2011 39.3535 36.2079 39.3535ZM35.9102 52.8613C32.3827 52.8247 28.8521 52.8461 25.3246 52.8461C21.8336 52.8461 18.3425 52.8247 14.8515 52.8643C14.0858 52.8735 13.8883 52.633 13.8974 51.8962C13.9339 48.8184 13.9339 45.7375 13.8974 42.6597C13.8883 41.9077 14.1253 41.6825 14.8667 41.6855C21.8852 41.7098 28.9038 41.7098 35.9254 41.6855C36.6546 41.6825 36.8156 41.9534 36.8126 42.6201C36.7883 45.7375 36.7852 48.8549 36.8156 51.9723C36.8217 52.6664 36.612 52.8704 35.9102 52.8613Z" fill="#1C1C1C"/>
                 <path d="M98.6974 56.1189C96.9929 55.9149 97.3484 54.8098 97.3393 53.7808C97.3363 53.3638 97.3423 52.9436 97.3211 52.5266C97.1661 49.3696 94.6291 46.6632 91.6211 46.4409C88.0632 46.1761 85.192 48.2736 84.5054 51.5798C84.2623 52.7549 84.3717 53.927 84.3413 55.099C84.3291 55.4978 84.3474 55.7414 83.7913 55.851C82.3086 56.1432 81.7648 56.8708 81.7587 58.393C81.7435 61.5104 81.7435 64.6248 81.7587 67.7422C81.7678 69.511 82.6429 70.3695 84.4324 70.3847C86.5562 70.3999 88.68 70.3877 90.8038 70.3877C93.0036 70.3877 95.2033 70.406 97.4031 70.3816C98.983 70.3634 99.9796 69.4622 99.9948 67.9766C100.028 64.707 100.013 61.4404 100.001 58.1708C100.001 57.221 99.5725 56.2254 98.6974 56.1189ZM86.772 55.0442C86.8175 54.4019 86.778 53.7534 86.7841 53.108C86.8023 50.6391 88.4886 48.8673 90.8342 48.849C93.1464 48.8338 94.9268 50.6208 94.9998 53.0441C95.0848 55.8023 95.0848 55.8023 92.2865 55.8023C91.7943 55.8023 91.3021 55.8023 90.8099 55.8023C89.71 55.8023 88.6101 55.7658 87.5133 55.8175C86.8935 55.8449 86.7294 55.6257 86.772 55.0442ZM96.923 67.9492C94.9147 67.9218 92.9064 67.9401 90.898 67.9401C90.898 67.9675 90.898 67.9949 90.898 68.0223C88.9261 68.0223 86.9573 67.9949 84.9884 68.0375C84.317 68.0527 84.0648 67.9035 84.0769 67.1699C84.1225 64.5121 84.1286 61.8514 84.0739 59.1937C84.0557 58.3504 84.3474 58.2134 85.1161 58.2256C89.0142 58.2895 92.9155 58.4235 96.8106 58.1342C97.4061 58.0916 97.5975 58.2773 97.6006 58.8832C97.6097 61.6566 97.6431 64.4269 97.71 67.2003C97.7252 67.8305 97.4851 67.9553 96.923 67.9492Z" fill="#1C1C1C"/>

diff --git a/src/components/Footer.vue b/src/components/Footer.vue
@@ -2,7 +2,7 @@
     <footer class="w-full md:text-xl  text-sm font-normal leading-loose md:mt-20 mt-10 border-t border-gray-200 md:pt-20 pt-10">
         <div class="flex flex-col-reverse md:flex-row gap-x-10 w-full px-4 md:px-12 lg:px-28 pb-10">
             <div class="md:w-2/5 w-full ">
-                <p class="text-base">
+                <p class="text-base font-medium">
                     {{ moto }}
                 </p>
 
@@ -16,22 +16,22 @@
             </div>
             <div class="md:w-3/5 w-full grid md:grid-cols-3 grid-cols-2 px-1">
                 <div v-for="page in otherPages" :key="page.title" class="justify-self-center mb-6 px-2 flex-wrap">
-                <h3 class="text-red-800 md:text-xl text-base md:mb-6 mb-2">
-                    {{ page.title }}
-                </h3>
-                
-                <p v-for="link in page.links" :key="link" class="py-1 md:text-base text-sm">
-                    {{ link }}
-                </p>
+                    <h3 class="text-red-800 md:text-xl text-base md:mb-6 mb-2 font-semibold">
+                        {{ page.title }}
+                    </h3>
+                    
+                    <p v-for="link in page.links" :key="link" class="py-1 md:text-base text-sm font-medium">
+                        {{ link }}
+                    </p>
                 </div>
-                <div class="mb-6">
-                    <h3  class="text-red-800  md:text-xl text-base md:mb-6 mb-2">
+                <div class="mb-6 justify-self-center">
+                    <h3  class="text-red-800 md:text-xl text-base md:mb-6 mb-2 font-semibold text-center">
                         STORE INFORMATION
                     </h3>
                     
                     <div v-for="contact in contacts" :key="contact.text" class="py-1 md:text-base text-sm flex">
                         <component :is="contact.icon" class="w-1/12 mr-4 self-start pt-2" />
-                        <p class="w-11/12"> {{ contact.text }}</p>
+                        <p class="w-11/12 font-medium"> {{ contact.text }}</p>
                     </div>
                 </div>
             </div>
@@ -85,5 +85,8 @@ const socials = [
 <style scoped>
 h3 {
     font-family: Playfair Display;
+} 
+p {
+    color: "#1C1C1C"
 }
 </style>

diff --git a/src/components/SecondCategories.vue b/src/components/SecondCategories.vue
@@ -3,11 +3,11 @@
         <div 
             v-for="(category, index) in secondCategories"
             :key="index"
-            class="relative"
+            :class="`relative w-full lg:h-[550px] md:h-[400px] h-[300px]  ${colors[index]} object-contain overflow-hidden`"
         >
-            <img :src="getImageUrl(category.img)" :alt="category.name" class="w-full">
+            <img :src="getImageUrl(category.img)" :alt="category.name" class="w-full h-full">
             <div class="backdrop-blur-xl bg-white/30 w-full md:h-16 lg:h-20 h-12 absolute lg:text-3xl md:text-xl text-base bottom-0">
-                <p class="flex justify-center items-center h-full text-white">
+                <p class="flex text-xl justify-center items-center h-full text-white capitalize">
                     {{category.name}}
                 </p>
             </div>
@@ -18,4 +18,11 @@
 import { secondCategories } from "../resources";
 import { getImageUrl } from '../helpers/link';
 
+const colors = ["bg-green-500", "bg-blue-300", "bg-red-500", "bg-purple-200", "bg-amber-500", "bg-blue-500"];
+
 </script>
+<style scoped>
+p {
+    font-family: Playfair Display;
+}
+</style>

diff --git a/src/components/Contact.vue b/src/components/Contact.vue
@@ -25,9 +25,9 @@
                 <div class="flex w-full justify-center lg:px-[250px] md:px-28 px-12 lg:mt-10 md:mt-7 mt-4">
                     <input type="text" 
                         placeholder="Enter your email"
-                        class="lg:p-10 md:p-8 p-4 bg-[#b25363] w-full lg:text-2xl md:text-lg text-sm text-white placeholder:text-white"
+                        class="lg:p-6 md:p-4 p-2 bg-[#b25363] w-full lg:text-xl md:text-lg text-sm text-white placeholder:text-white"
                     />
-                    <button class="bg-white lg:px-10 md:px-7 px-4 lg:text-3xl md:text-xl text-base font-bold sub-btn">Subscribe</button>
+                    <button class="bg-white lg:px-6 md:px-5 px-3 lg:text-xl md:text-lg text-base font-bold sub-btn">Subscribe</button>
                 </div>
             </div>
         </div>

diff --git a/index.html b/index.html
@@ -5,8 +5,9 @@
     <link rel="icon" type="image/svg+xml" href="/vite.svg" />
     <meta name="viewport" content="width=device-width, initial-scale=1.0" />
     <link rel="preconnect" href="https://fonts.googleapis.com">
-<link rel="preconnect" href="https://fonts.gstatic.com" crossorigin>
-<link href="https://fonts.googleapis.com/css2?family=Montserrat&display=swap" rel="stylesheet">
+    <link rel="preconnect" href="https://fonts.gstatic.com" crossorigin>
+    <link href="https://fonts.googleapis.com/css2?family=Montserrat&family=Playfair+Display&display=swap" rel="stylesheet">
+    <link href="https://fonts.googleapis.com/css2?family=Montserrat&display=swap" rel="stylesheet">
     <title>E-commerce Vue.js</title>
   </head>
   <body>

diff --git a/src/resources/index.js b/src/resources/index.js
@@ -170,27 +170,27 @@ const thirdListing = [
 const secondCategories = [
     {
         name: "Ts collection",
-        img: "model5.webp"
+        img: "category1.png"
     },
     {
         name: "ken categories",
-        img: "model1.webp"
+        img: "category2.png"
     },
     {
         name: "Fsfan lfjsn",
-        img: "model6.webp"
+        img: "category3.png"
     },
     {
         name: "female category",
-        img: "model4.webp"
+        img: "category4.png"
     },
     {
         name: "Lorem ipsum",
-        img: "model2.webp"
+        img: "category5.png"
     },
     {
         name: "Men's Categories",
-        img: "model9.webp"
+        img: "category6.png"
     },
     
 ];

diff --git a/src/components/ProductCard.vue b/src/components/ProductCard.vue
@@ -5,11 +5,11 @@
                 v-if="imgLoaded"
                 :src="getImageUrl(info.img)" 
                 alt="info.title" 
-                class="w-full lg:h-96 md:h-80 h-72 inset-0 object-cover"
+                class="w-full lg:h-[500px] md:h-96 h-84 inset-0 object-cover"
                 loading="lazy"
             />
             <div v-else
-                class="w-full lg:h-96 md:h-80 h-72 border border-gray-200 bg-gray-400 px-6 py-20"
+                class="w-full lg:h-[500px] md:h-80 h-72 border border-gray-200 bg-gray-400 px-6 py-20"
             > 
                 <div v-for="time of 5" :key="time" class="h-1/5 bg-gray-200 m-2  rounded-xl animate-bounce" />
 
